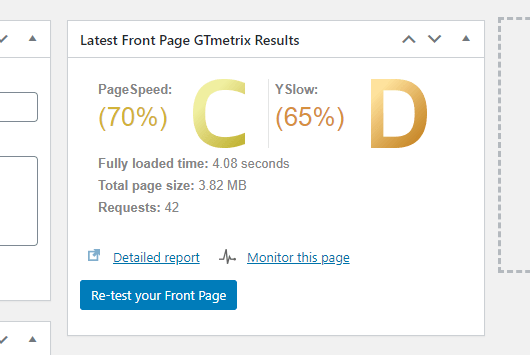
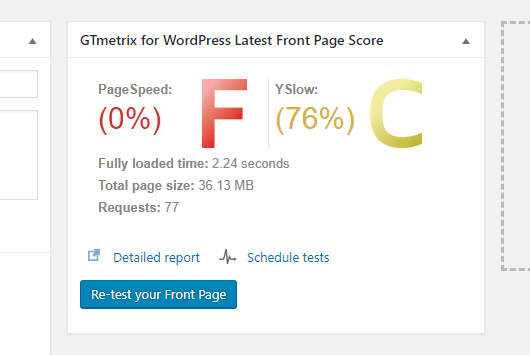
v 0.4.7

diff --git a/widget.php b/widget.php
@@ -5,29 +5,28 @@ class GFW_Widget extends WP_Widget {
     function __construct() {
         $widget_ops = array( 'classname' => 'gfw_widget', 'description' => 'The GTmetrix grades for your home page' );
         parent::__construct( 'gfw-widget', 'GTmetrix for WordPress', $widget_ops );
-        $options = get_option( 'gfw_options' );
-        if ( $options['widget_css'] ) {
-            add_action('wp_enqueue_scripts', array($this, 'gfw_enqueue_style'));
-        }
     }
-    function gfw_enqueue_style() {
-        wp_enqueue_style( 'gfw-widget', GFW_URL . 'widget.css', [], GFW_VERSION );
-    }
-    
+
     function widget( $args, $instance ) {
         $options = get_option( 'gfw_options' );
+
+        if ( $options['widget_css'] ) {
+            wp_enqueue_style( 'gfw-widget', GFW_URL . 'widget.css', GFW_VERSION );
+        }
+
         extract( $args, EXTR_SKIP );
         $title = apply_filters( 'widget_title', $instance['title'] );
 
+        
         $args = array(
             'post_type' => 'gfw_report',
-            'posts_per_page' => 1,
+            'numberposts' => 1,
             'orderby' => 'post_date',
             'order' => 'DESC',
             'meta_query' => array(
                 array(
                     'key' => 'gfw_url',
-                    'value' => rtrim( GFW_FRONT, '/') . '/'
+                    'value' => GFW_FRONT
                 ),
                 array(
                     'key' => 'gtmetrix_test_id',
@@ -36,34 +35,32 @@ class GFW_Widget extends WP_Widget {
                 )
             )
         );
-        
-        $gfw_query = new WP_Query( $args );
 
-        if ( $gfw_query->have_posts() ) {
-            global $gfw;
+        $query = new WP_Query( $args );
+ 
+        if ( $query->have_posts() ) {
             echo $before_widget;
             if ( !empty( $title ) ) {
                 echo $before_title . $title . $after_title;
             }
-            
-            echo '<ul>';
-              while ( $gfw_query->have_posts() ) {
 
-                $gfw_query->next_post();
-                $custom_fields = get_post_custom( $gfw_query->post->ID );
-                //$grades = GTmetrix_For_WordPress::gtmetrix_grade( $custom_fields['pagespeed_score'][0], $custom_fields['yslow_score'][0] );
+            echo '<ul>';
+              while ( $query->have_posts() ) {
+                $query->next_post();
+                $custom_fields = get_post_custom( $query->post->ID );
+                $grades = GTmetrix_For_WordPress::gtmetrix_grade( $custom_fields['pagespeed_score'][0], $custom_fields['yslow_score'][0] );
+
                 if ( $options['widget_pagespeed'] ) {
-                    $pagespeed_grade = $gfw->score_to_grade( $custom_fields['pagespeed_score'][0] );
-                    echo '<li class="gfw-grade-' . $pagespeed_grade['grade'] . ' gfw-pagespeed"><span class="gfw-tool">PageSpeed:</span> <span class="gfw-grade">' . $pagespeed_grade['grade'] . '</span>' . ($options['widget_scores'] ? ' <span class="gfw-score">(' . $custom_fields['pagespeed_score'][0] . '%)</span>' : '' ) . '</li>';
+                    echo '<li class="gfw-grade-' . $grades['pagespeed_grade'] . ' gfw-pagespeed"><span class="gfw-tool">PageSpeed:</span> <span class="gfw-grade">' . $grades['pagespeed_grade'] . '</span>' . ($options['widget_scores'] ? ' <span class="gfw-score">(' . $custom_fields['pagespeed_score'][0] . '%)</span>' : '' ) . '</li>';
                 }
                 if ( $options['widget_yslow'] ) {
-                    $yslow_grade = $gfw->score_to_grade( $custom_fields['yslow_score'][0] );
-                    echo '<li class="gfw-grade-' . $yslow_grade['grade'] . ' gfw-yslow"><span class="gfw-tool">YSlow:</span> <span class="gfw-grade">' . $yslow_grade['grade'] . '</span>' . ($options['widget_scores'] ? ' <span class="gfw-score">(' . $custom_fields['yslow_score'][0] . '%)</span>' : '' ) . '</li>';
+                    echo '<li class="gfw-grade-' . $grades['yslow_grade'] . ' gfw-yslow"><span class="gfw-tool">YSlow:</span> <span class="gfw-grade">' . $grades['yslow_grade'] . '</span>' . ($options['widget_scores'] ? ' <span class="gfw-score">(' . $custom_fields['yslow_score'][0] . '%)</span>' : '' ) . '</li>';
                 }
             }
             echo '</ul>';
+
             if ( $options['widget_link'] ) {
-                echo '<div class="gfw-link">Speed Matters! <a href="' . ( $gfw->gtmetrix_file_exists( $custom_fields['report_url'][0] . '/screenshot.jpg' ) ? $custom_fields['report_url'][0] : 'http://gtmetrix.com/') . '" target="_blank" class="gfw-link">GTmetrix</a></div>';
+                echo '<div class="gfw-link">Speed Matters! <a href="' . (GTmetrix_For_WordPress::gtmetrix_file_exists( $custom_fields['report_url'][0] . '/screenshot.jpg' ) ? $custom_fields['report_url'][0] : 'http://gtmetrix.com/') . '" target="_blank" class="gfw-link">GTmetrix</a></div>';
             }
             echo $after_widget;
         }

diff --git a/uninstall.php b/uninstall.php
@@ -4,28 +4,6 @@ if (!defined('WP_UNINSTALL_PLUGIN')) {
     exit();
 }
 
-/*
- * conditionally delete settings and records
- */
-$options = get_option( 'gfw_options' );
-
-if( $options['clear_settings'] ) {
-	delete_option('gfw_options');
-}
-
-if( $options['clear_records'] ) {
-	$args = array(
-	    'post_type' => array( 'gfw_report', 'gfw_event' ),
-	    'post_status' => 'any',
-	    'posts_per_page' => -1
-	);
-
-	$query = new WP_Query( $args );
-
-	while ( $query->have_posts() ) {
-	    $query->next_post();
-	    wp_delete_post( $query->post->ID );
-	}
-}
+delete_option('gfw_options');
 
 ?>

diff --git a/gtmetrix-for-wordpress.php b/gtmetrix-for-wordpress.php
@@ -3,7 +3,7 @@
   Plugin Name: GTmetrix for WordPress
   Plugin URI: https://gtmetrix.com/gtmetrix-for-wordpress-plugin.html
   Description: GTmetrix can help you develop a faster, more efficient, and all-around improved website experience for your users. Your users will love you for it.
-  Version: 0.4.6.1
+  Version: 0.4.7
   Author: GTmetrix
   Author URI: https://gtmetrix.com/
 
